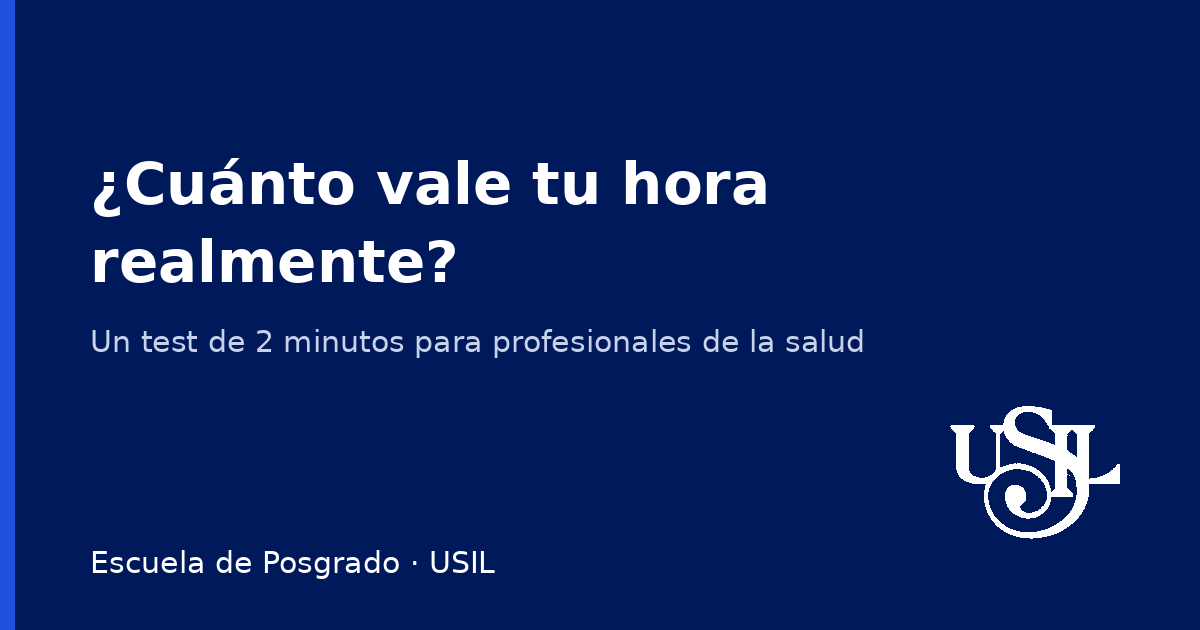
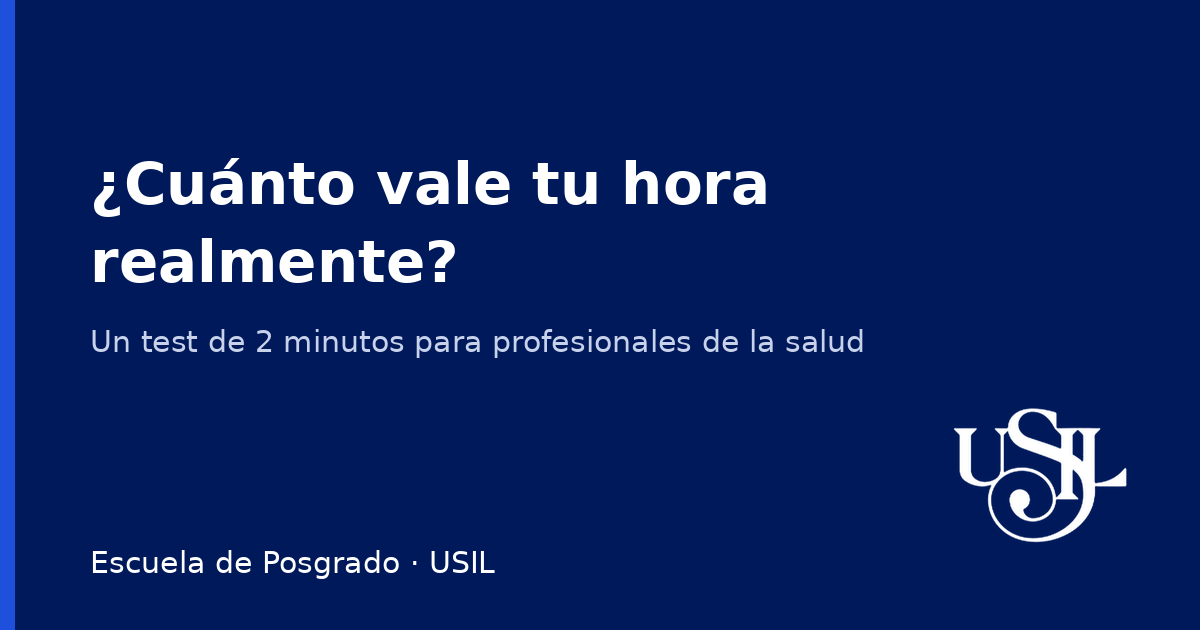
act

Changed region(s): [[0.7708, 0.6333, 0.9558, 0.8746]]

diff --git a/index.html b/index.html
@@ -1,4 +1,4 @@
-<!DOCTYPE html>
+t add<!DOCTYPE html>
 <html lang="es">
 <head>
 <meta charset="UTF-8">
@@ -55,7 +55,7 @@
          ============================================================ -->
     <section class="pantalla activa" id="pantalla-1" data-pantalla="1" aria-live="polite">
       <div class="tarjeta-portada">
-        <img class="logo-portada" src="assets/img/logo-epg.png" alt="Escuela de Posgrado USIL" width="280" height="100">
+        <img class="logo-portada" src="assets/img/logo-epg.png" alt="Escuela de Posgrado USIL" width="280" height="107">
 
         <h1 class="titular-portada">¿Cuánto vale tu hora realmente?</h1>
         <p class="bajada-portada">Ningún profesional de salud sabe cuánto gana por hora. Cree que lo sabe.</p>
@@ -108,7 +108,7 @@
          ============================================================ -->
     <section class="pantalla" id="pantalla-3" data-pantalla="3">
       <div class="tarjeta-pregunta">
-        <h2 class="pregunta-titulo">¿Cuántas horas al mes dice tu contrato o tu rol de turnos?</h2>
+        <h2 class="pregunta-titulo">¿Cuántas horas al mes trabajas según tu contrato o tu rol de turnos?</h2>
 
         <div class="campo-numero-grande">
           <input
@@ -140,12 +140,12 @@
     <section class="pantalla" id="pantalla-4" data-pantalla="4">
       <div class="tarjeta-pregunta tarjeta-ancha">
         <h2 class="pregunta-titulo">Acá se cae el mito.</h2>
-        <p class="pregunta-ayuda">Sé honesto: nadie más ve esto.</p>
+        <p class="pregunta-ayuda">Sé honesto: nadie más ve esto. Todo en horas al mes.</p>
 
         <div class="grilla-horas-ocultas">
 
           <div class="campo-hora-oculta">
-            <label for="hi-1">Traslados entre sedes (horas al mes)</label>
+            <label for="hi-1">Traslados entre sedes</label>
             <input type="number" id="hi-1" name="hi1" class="input-pequeno" inputmode="numeric" min="0" step="1" value="0">
           </div>
 
@@ -179,7 +179,7 @@
 
         <div class="fila-botones">
           <button type="button" class="boton boton-fantasma" data-volver>Atrás</button>
-          <button type="button" class="boton boton-primario" id="btn-continuar-4">Ver mi resultado</button>
+          <button type="button" class="boton boton-primario" id="btn-continuar-4">Continuar</button>
         </div>
       </div>
     </section>
@@ -302,7 +302,7 @@
              por los programas reales de la Escuela de Posgrado.
              ============================================================ -->
         <div class="bloque-conversion">
-          <h3 class="conversion-titulo">Tu tiempo vale más cuando tu especialización también</h3>
+          <h3 class="conversion-titulo">Tu hora vale más cuando tu especialización también crece</h3>
 
           <div class="grilla-programas">
             <a class="tarjeta-programa" href="#" target="_blank" rel="noopener">

diff --git a/README.md b/README.md
@@ -12,8 +12,13 @@ GitHub Pages.
 /assets/css/style.css
 /assets/js/app.js
 /assets/img/        → logo, favicons e imagen para redes sociales
+/apps-script/Codigo.gs  → script para conectar el formulario a Google Sheets
 /README.md
 ```
+
+La carpeta `/apps-script/` no se sube a GitHub Pages ni la usa el sitio
+directamente — es solo el código que copias al editor de Apps Script. Ver la
+sección 4 más abajo.
 
 ## 1. Desplegar en GitHub Pages
 
@@ -64,8 +69,10 @@ barra de progreso, tarjetas, acentos).
   actualiza los tres enlaces `<a class="tarjeta-programa">` con el nombre real
   del programa y su URL.
 - **Logo / imagen de redes sociales**: los archivos están en `assets/img/`.
-  `logo-epg.png` es el logo institucional recortado; `og-image.png` es la
-  imagen que se muestra al compartir el enlace en WhatsApp/LinkedIn/redes.
+  `logo-epg.png` es el logo institucional con fondo transparente (usado en la
+  portada); `og-image.png` es la imagen que se muestra al compartir el enlace
+  en WhatsApp/LinkedIn/redes, y los `favicon-*` se generaron a partir del
+  mismo logo en alta resolución para verse nítidos en cualquier pantalla.
 
 ## 4. Conectar el formulario a Google Sheets (Apps Script)
 
@@ -83,38 +90,15 @@ resultado y se descartan.
 ### Pasos
 
 1. **Crea el Google Sheet.** Ve a [sheets.google.com](https://sheets.google.com),
-   crea uno nuevo y en la primera fila agrega estos encabezados (uno por
+   crea uno nuevo (puedes llamarlo, por ejemplo, "Diagnóstico de hora real —
+   Respuestas") y en la primera fila agrega estos encabezados (uno por
    columna, en este orden):
    `fechaHora | nombres | apellidos | dni | correo | telefono | arquetipo | urlOrigen | utm_source | utm_medium | utm_campaign`
 
 2. **Abre el editor de Apps Script.** Dentro del Sheet, ve a
    **Extensiones → Apps Script**. Borra el contenido de `Código.gs` y pega
-   esto:
-
-   ```javascript
-   function doPost(e) {
-     var hoja = SpreadsheetApp.getActiveSpreadsheet().getActiveSheet();
-     var datos = JSON.parse(e.postData.contents);
-
-     hoja.appendRow([
-       datos.fechaHora || new Date().toISOString(),
-       datos.nombres || "",
-       datos.apellidos || "",
-       datos.dni || "",
-       datos.correo || "",
-       datos.telefono || "",
-       datos.arquetipo || "",
-       datos.urlOrigen || "",
-       (datos.utm && datos.utm.utm_source) || "",
-       (datos.utm && datos.utm.utm_medium) || "",
-       (datos.utm && datos.utm.utm_campaign) || ""
-     ]);
-
-     return ContentService.createTextOutput(
-       JSON.stringify({ ok: true })
-     ).setMimeType(ContentService.MimeType.JSON);
-   }
-   ```
+   el contenido completo del archivo `apps-script/Codigo.gs` incluido en este
+   proyecto.
 
 3. **Despliega como aplicación web.** Arriba a la derecha, clic en
    **Implementar → Nueva implementación**. Elige el tipo **Aplicación web**.
